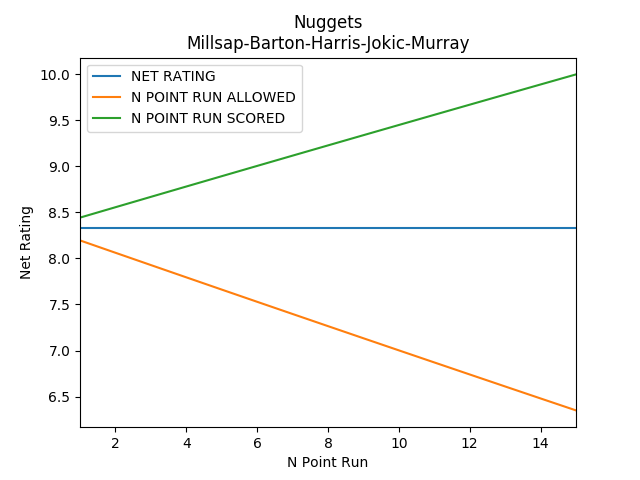
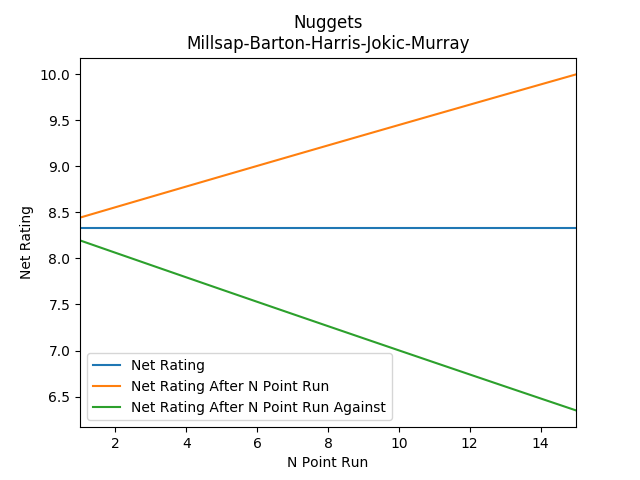
Update Plots

diff --git a/five_man_net_rating/net_rtg_run.py b/five_man_net_rating/net_rtg_run.py
@@ -100,9 +100,9 @@ for season in ['2019-20']: #'2018-19',
 
 
         fig = plt.figure()
-        plt.plot(frame['RUN'], frame['NET'], label='NET RATING')
-        plt.plot(frame['RUN'], frame['NET - RUN ALLOWED'], label='N POINT RUN ALLOWED')
-        plt.plot(frame['RUN'], frame['NET - RUN SCORED'], label='N POINT RUN SCORED')
+        plt.plot(frame['RUN'], frame['NET'], label='Net Rating')
+        plt.plot(frame['RUN'], frame['NET - RUN SCORED'], label='Net Rating After N Point Run')
+        plt.plot(frame['RUN'], frame['NET - RUN ALLOWED'], label='Net Rating After N Point Run Against')
 
         plt.title('{}\n{}'.format(team_lineup['TEAM'], team_lineup['LINEUP']))
         plt.xlabel('N Point Run')
